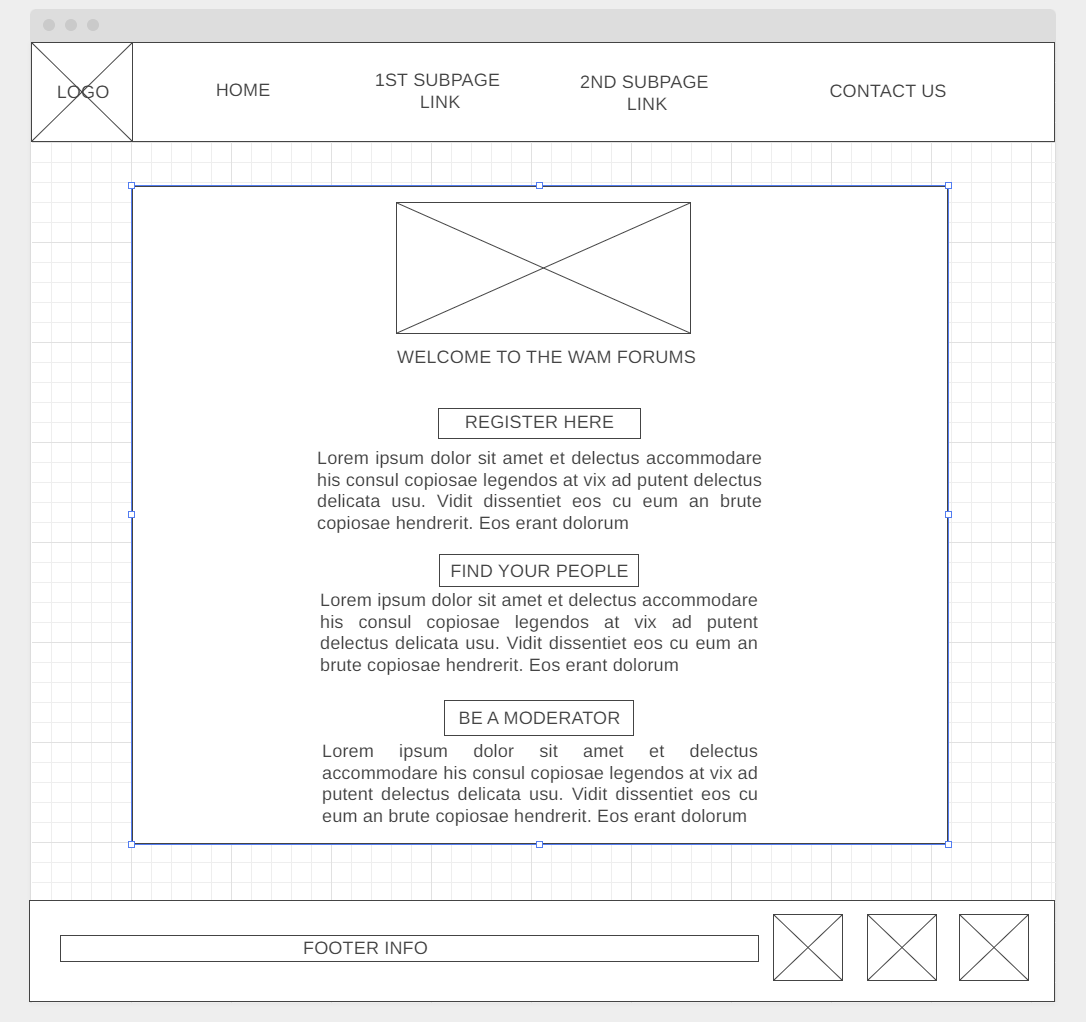
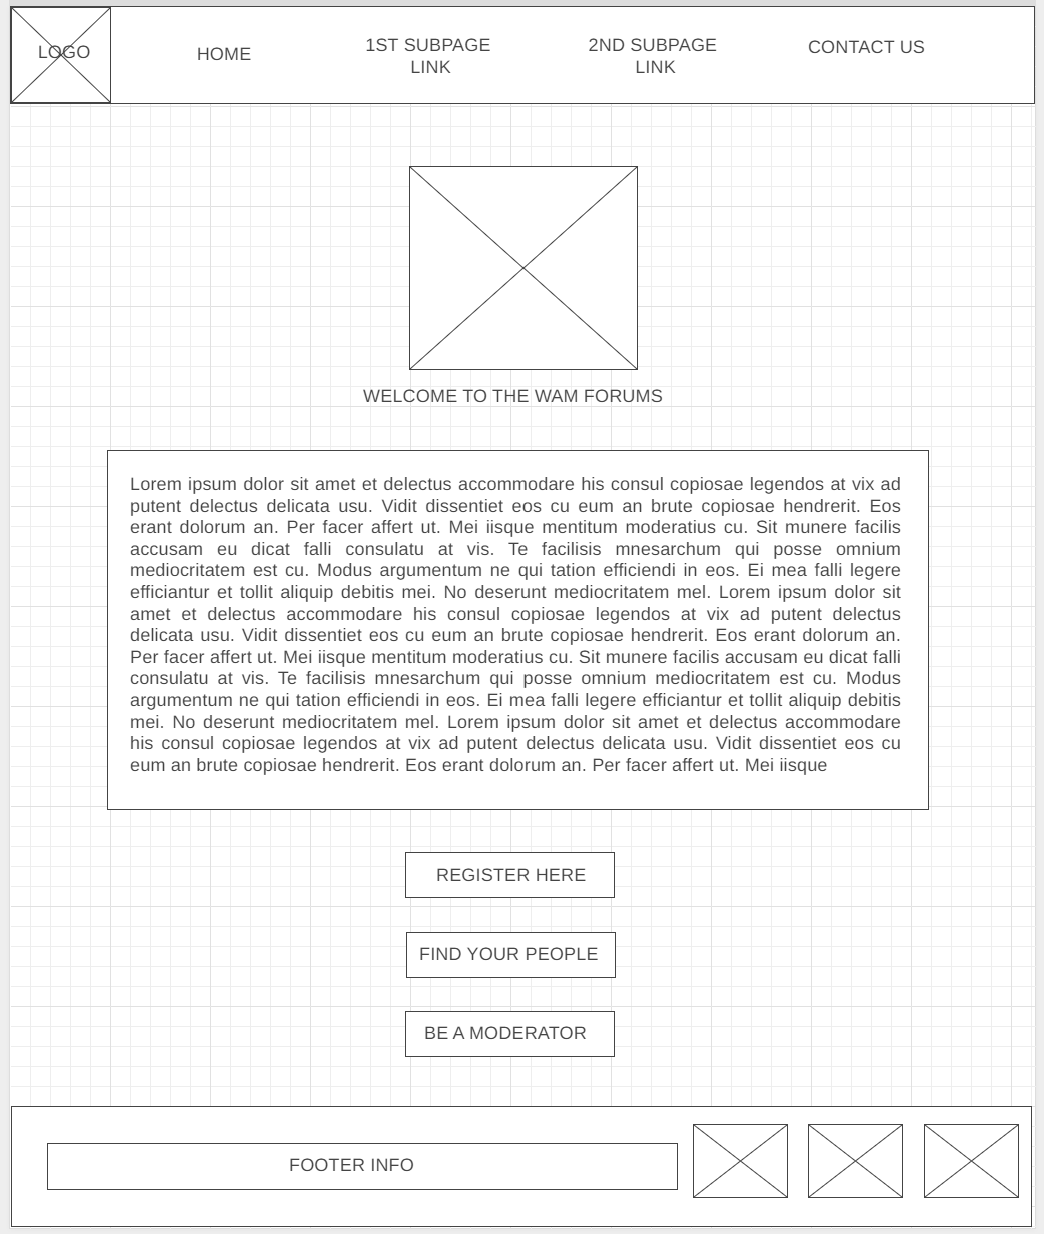
WAM

diff --git a/mentalhealthsite/styles/style.css b/mentalhealthsite/styles/style.css
@@ -196,6 +196,93 @@ main section img {
     margin-right: auto;
 }
 
+/* CSS for 2nd subpage */
+.btn {
+    border: none;
+    background-color: inherit;
+    padding: 14px 28px;
+    font-size: 16px;
+    cursor: pointer;
+    display: inline-block;
+  }
+  
+  /* On mouse-over */
+  .btn:hover {background: #eee;}
+  
+  .register {color:#F51720}
+  .findforum {color: #F8D210;}
+  .moderator {color: #2FF3E0;}
+
+   
+.register{
+    color: #F51720;
+    font-size: 15px;
+    font-family: Arial, Helvetica, sans-serif;
+    font-weight: bolder;
+}
+
+.register:hover{
+    background-color: #F51720;
+    color: white;
+}
+.findforum{
+    color:#F8D210;
+    font-size: 15px;
+    font-family: Arial, Helvetica, sans-serif;
+    font-weight: bolder;
+}
+
+.findforum:hover{
+    background-color: #F8D210;
+    color: white;
+}
+
+.moderator{
+    color: #2FF3E0;
+    font-size: 15px;
+    font-family: Arial, Helvetica, sans-serif;
+    font-weight: bolder;
+}
+
+.moderator:hover{
+    background-color: #2FF3E0;
+    color: white;
+}
+
+div.button-box{
+    display: grid;
+    grid-template-columns: 1fr 1fr 1fr;
+    grid-template-rows: 1fr 1fr 1fr;
+    margin-top: 50px;
+ 
+}
+
+div.button-box .register{
+    grid-column: 2;
+    grid-row: 1;
+    width: 150px;
+    margin-left: auto;
+    margin-right: auto;
+    margin-bottom: 30px;
+}
+
+div.button-box .findforum{
+    grid-column: 2;
+    grid-row: 2;
+    width: 150px;
+    margin-left: auto;
+    margin-right: auto;
+    margin-bottom: 30px;
+}
+
+div.button-box .moderator{
+    grid-column: 2;
+    grid-row: 3;
+    width: 150px;
+    margin-left: auto;
+    margin-right: auto;
+    margin-bottom: auto;
+}
 
 @media screen and (max-width: 900px) {
     .home-grid {

diff --git a/mentalhealthsite/thirdpage.html b/mentalhealthsite/thirdpage.html
@@ -51,9 +51,9 @@
                 
                 </p>
             <div class="button-box">
-                <a class="register" href="register.html">Register Here</a>
-                <a class="findforum" href="forum.html">Find Your People</a>
-                <a class="moderator" href="moderator.html">Be a Moderator</a>
+                <button class="register" href="register.html">Register Here</button>
+                <button class="findforum" href="forum.html">Find Your People</button>
+                <button class="moderator" href="moderator.html">Be a Moderator</button>
             </div>
         </section>
     </main>
